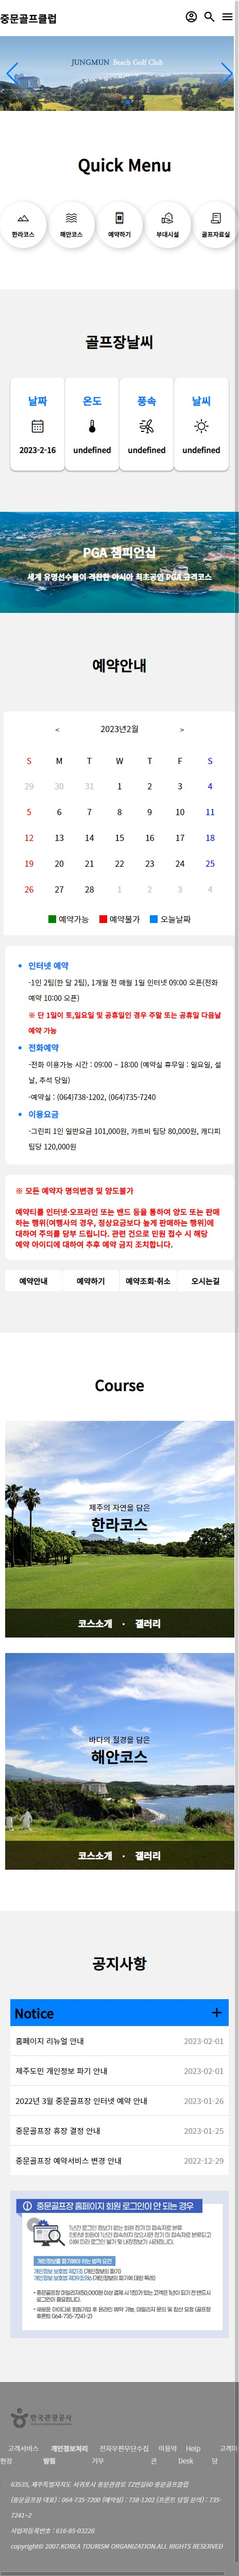
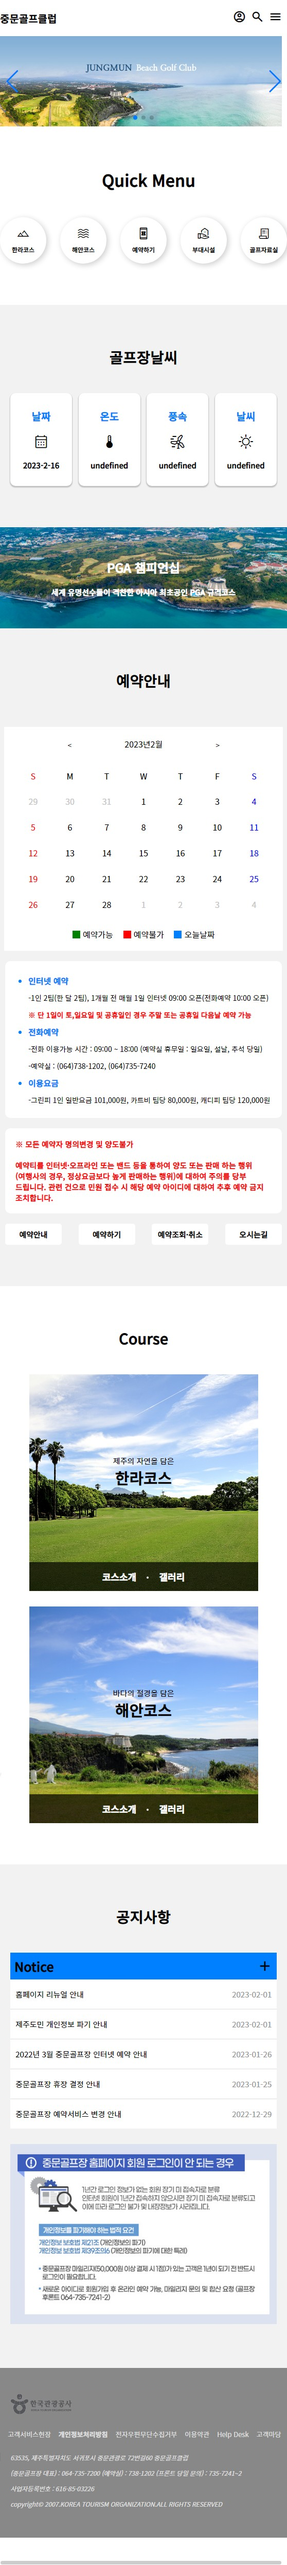
index

diff --git a/css/index02.css b/css/index02.css
@@ -429,7 +429,7 @@ nav button{
 }
 .sec02 .container.ex02 .project .left .mobile{
     overflow: hidden;
-    width: 300px;
+    width: 305px;
     height: 260px;
     position: absolute;
     top: 140px;
@@ -440,7 +440,7 @@ nav button{
     position: absolute;
     top: 0;
     width: 100%;
-    height: 3200px;
+    height: 2800px;
     transition: all 8s;
 }
 .sec02 .container.ex02 .project .left .mobile .mobile-img:hover{
